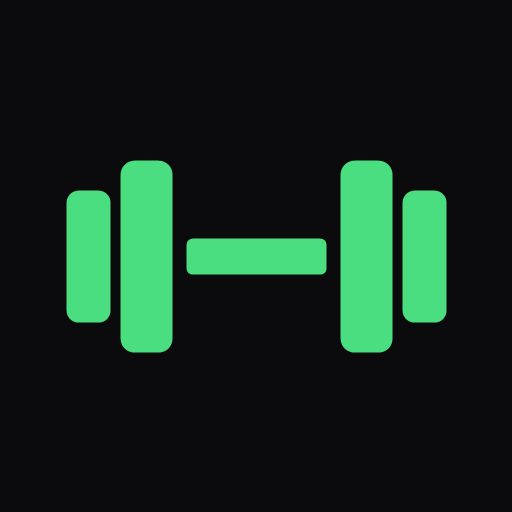
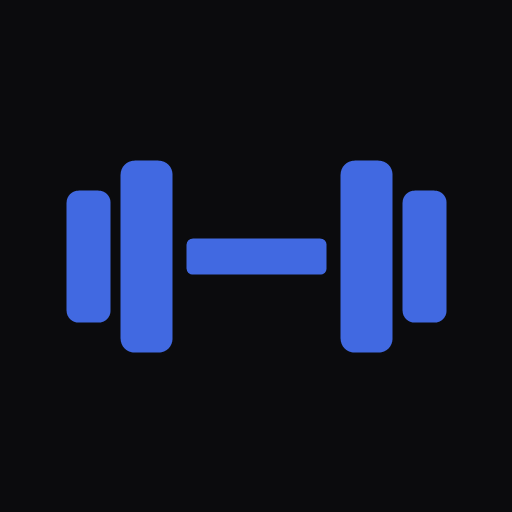
Switch accent color to royal blue

Changed region(s): [[0.125, 0.3125, 0.875, 0.6875]]

diff --git a/index.html b/index.html
@@ -14,7 +14,7 @@
 <link rel="icon" type="image/png" href="./icon-192.png">
 <style>
 *{box-sizing:border-box;-webkit-tap-highlight-color:transparent}
-:root{--bg:#0b0b0d;--card:#1a1a20;--card2:#2a2a33;--text:#fff;--dim:#b4b4c0;--acc:#4ade80;--accText:#06210f;--danger:#ff6b6b;--warn:#fbbf24}
+:root{--bg:#0b0b0d;--card:#1a1a20;--card2:#2a2a33;--text:#fff;--dim:#b4b4c0;--acc:#4169E1;--accL:#7f9bf5;--accText:#fff;--danger:#ff6b6b;--warn:#fbbf24}
 html,body{margin:0;background:var(--bg);color:var(--text);font-family:-apple-system,BlinkMacSystemFont,"Segoe UI",Arial,sans-serif;font-size:18px;line-height:1.35;overflow-x:hidden;touch-action:manipulation}
 #app{min-height:100vh;min-height:100dvh;padding:calc(env(safe-area-inset-top) + 16px) calc(env(safe-area-inset-right) + 16px) calc(env(safe-area-inset-bottom) + 96px) calc(env(safe-area-inset-left) + 16px);max-width:640px;margin:0 auto}
 #app.noNav{padding-bottom:calc(env(safe-area-inset-bottom) + 24px)}
@@ -44,11 +44,11 @@ label{display:block;font-size:15px;color:var(--dim);margin-bottom:4px}
 .chk input{width:28px;height:28px;flex:none;accent-color:var(--acc)}
 nav{position:fixed;bottom:0;left:0;right:0;display:flex;background:#121216;border-top:1px solid #2a2a33;padding:0 env(safe-area-inset-right) env(safe-area-inset-bottom) env(safe-area-inset-left)}
 nav button{flex:1;background:none;border-radius:0;font-size:17px;color:var(--dim);min-height:64px;padding:0 4px}
-nav button.on{color:var(--acc)}
+nav button.on{color:var(--accL)}
 .prog{height:8px;background:var(--card2);border-radius:4px;overflow:hidden;margin:8px 0 16px}
 .prog i{display:block;height:100%;background:var(--acc)}
 .wname{font-size:32px;font-weight:700;margin:8px 0 4px;overflow-wrap:anywhere}
-.wgt{font-size:30px;color:var(--acc);font-weight:700;margin-bottom:16px}
+.wgt{font-size:30px;color:var(--accL);font-weight:700;margin-bottom:16px}
 .reps{color:var(--text)}
 .err{background:#3a1a1c;color:var(--danger);border-radius:12px;padding:12px 14px;margin-top:12px;font-size:17px}
 .timer{font-size:72px;font-weight:700;text-align:center;font-variant-numeric:tabular-nums;padding:16px 0}
@@ -57,7 +57,7 @@ nav button.on{color:var(--acc)}
 .setc{font-size:26px;font-weight:600}
 .tag{display:inline-block;background:var(--card2);border-radius:8px;padding:2px 10px;font-size:15px;color:var(--dim)}
 .ov{position:fixed;inset:0;background:var(--acc);color:var(--accText);display:flex;flex-direction:column;align-items:center;justify-content:center;gap:24px;z-index:10;font-size:40px;font-weight:800;text-align:center;padding:24px}
-.ov button{background:var(--accText);color:var(--acc);width:80%}
+.ov button{background:#fff;color:var(--acc);width:80%}
 .sep{height:1px;background:#2a2a33;margin:12px 0}
 .warnbox{background:#2b2410;color:var(--warn);border-radius:12px;padding:12px 14px;margin-bottom:12px;font-size:16px}
 .item{cursor:pointer}

diff --git a/sw.js b/sw.js
@@ -1,5 +1,5 @@
 // Bump CACHE_VERSION on every deploy so phones pick up the new files.
-var CACHE_VERSION = 'v2';
+var CACHE_VERSION = 'v3';
 var CACHE = 'workout-app-' + CACHE_VERSION;
 var FILES = [
   './',
